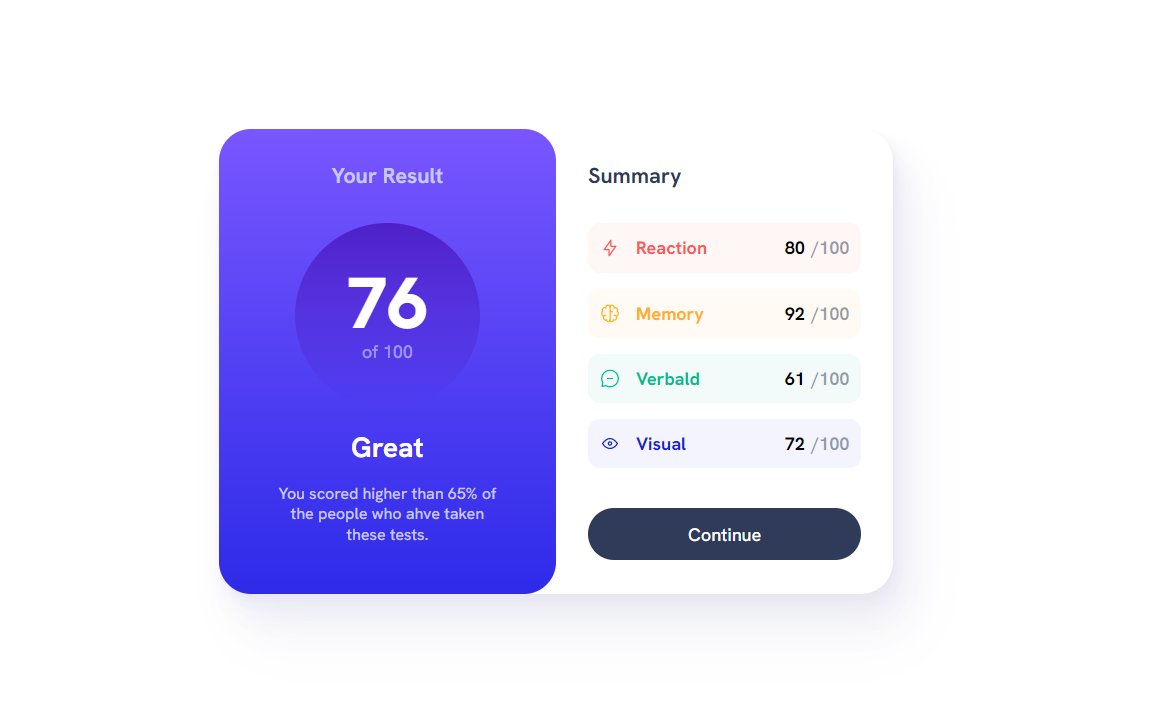
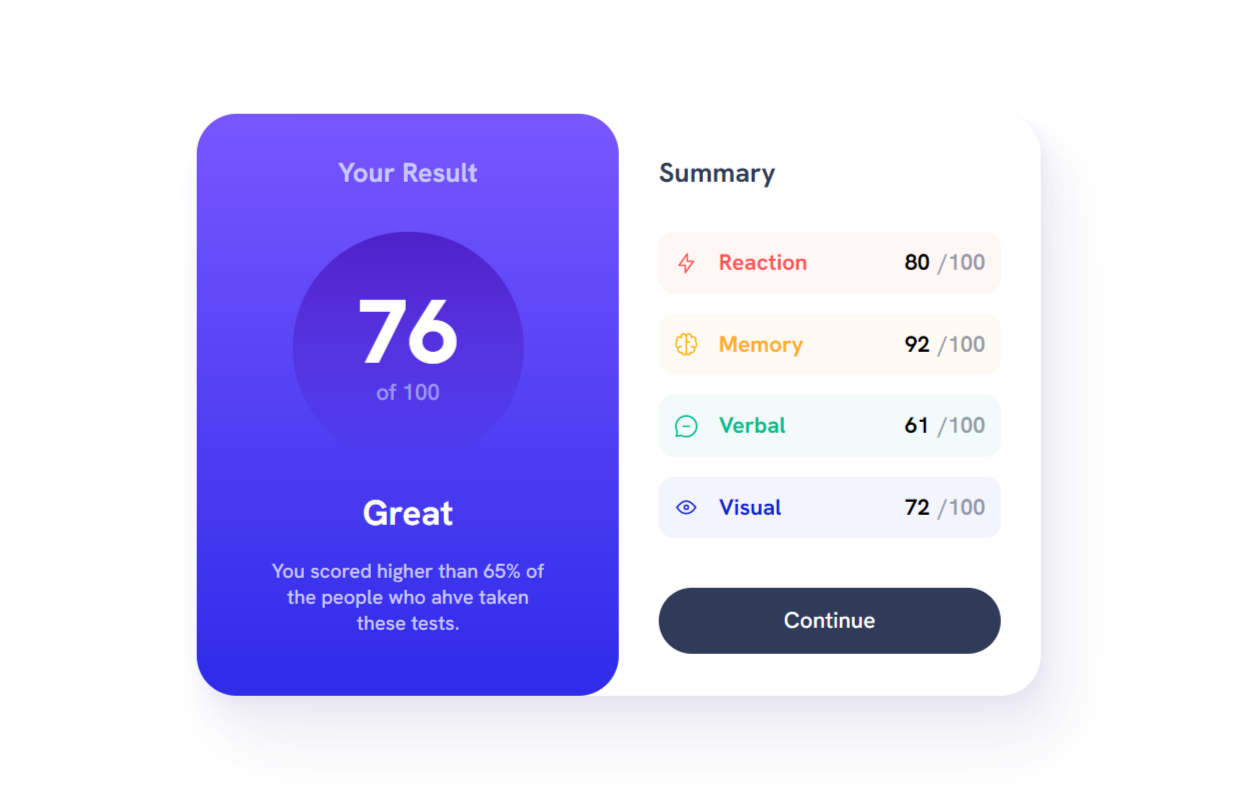
Fix spelling

diff --git a/index.html b/index.html
@@ -63,7 +63,7 @@
                 <svg xmlns="http://www.w3.org/2000/svg" width="20" height="20" fill="none" viewBox="0 0 20 20">
                   <path stroke="#00BB8F" stroke-linecap="round" stroke-linejoin="round" stroke-width="1.25" d="M7.5 10h5M10 18.333A8.333 8.333 0 1 0 1.667 10c0 1.518.406 2.942 1.115 4.167l-.699 3.75 3.75-.699A8.295 8.295 0 0 0 10 18.333Z" />
                 </svg>
-                Verbald
+                Verbal
               </span>
               <span class="status-mark">
                 <span class="text-dark-blue">61</span>

diff --git a/README.md b/README.md
@@ -1,13 +1,8 @@
+# Welcome! 👋
 
-## Welcome! 👋
+"Thanks for checking out this front-end coding challenge."
 
-Thanks for checking out this front-end coding challenge.
-
-[Frontend Mentor](https://www.frontendmentor.io) challenges help you improve your coding skills by building realistic projects.
-
-# Frontend Mentor - Results summary component solution
-
-This is a solution to the [Results summary component challenge on Frontend Mentor](https://www.frontendmentor.io/challenges/results-summary-component-CE_K6s0maV). Frontend Mentor challenges help you improve your coding skills by building realistic projects. 
+"This is my first challenge here. If you have any suggestions or feedback for my code, please feel free to comment. I would greatly appreciate all feedback."
 
 ## Table of contents
 
